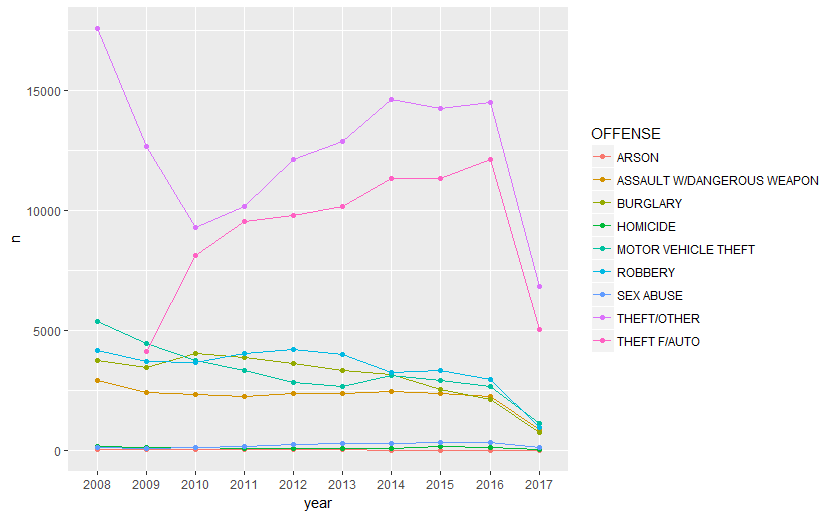
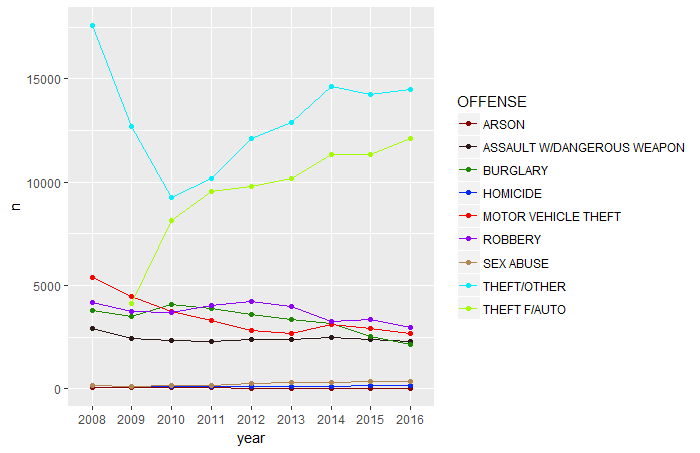
DC crimes

diff --git a/DCCrimeData.html b/DCCrimeData.html
@@ -1,7 +1,7 @@
 ---
 layout: default
 ---
-	<h2><a href="./CrimeData.html">Data visualization to compare crime statistics in DC and Chicago</a></h2>
+	<h2><a href="./DCCrimeData.html">A look at DC Crime Incidents</a></h2>
 	<p class="post-date">July 18, 2017</p>
 	<hr id='top-line'>
 
@@ -12,11 +12,15 @@ layout: default
 		<p style="text-align:center;">
     	<img src="./images/crime/dc_yearly.png" width="100%" height=auto style="max-width:450px;">
     	</p>
+   
     </div>
-    <p class="content">In 2008, Chicago Police Department's CLEAR (Citizen Law Enforcement Analysis and Reporting) system reported a total of 426,796 crime incidents and in 2016, a total of 267,626 crime incidents were reported. According to the plot below, the total number of crime incidents has been decreasing steadily since 2008.</p>
-    	<div class="content">
-		<p class="graph-title">Count of crime incidents from 2008-2017</p>
+    <p class="content">A closer look at the types of crimes that are contributing to the increase in number of crime incidents over the past 7 year revealed theft to be the main culprit. While there's a decline in the number of burglary, there are also slight increases in other crime types such as robbery and sex abuses. &#40; The graph also shows decreases in incidences of motor vehicle theft but auto theft is increasing since 2009&#41;</p>
+	<div class="content">
+		<p class="graph-title">Count of each crime type, 2008-2016</p>
 		<p style="text-align:center;">
-    	<img src="./images/crime/chicago_yearly.png" width="100%" height=auto style="max-width:450px;">
+    	<img src="./images/crime/dc_crimetype.png" width="100%" height=auto style="max-width:450px;">
     	</p>
     </div>
+
+
+

diff --git a/index.html b/index.html
@@ -3,13 +3,13 @@ layout: default
 ---
 
 	<span class="post-date"> July 18, 2017 </span>
-	<h2><a href="./CrimeData.html">Data visualization to compare crime statistics in DC and Chicago</a></h2>
+	<h2><a href="./DCCrimeData.html">A look at DC Crime Incidents</a></h2>
 	<hr id='top-line'>
-	<p class="content">In 2008, the District of Columbia Metropolitan Police Department reported a total of 34,205 crime incidents and in 2016, 37,186 crime incidents were reported. The bar plot below also shows that the crime incidents have been increasing steadily since 2009 with a peak in 2014.</p>
+	<p class="content">In 2008, the District of Columbia Metropolitan Police Department reported a total of 34,205 crime incidents and in 2016, 37,186 crime incidents were reported. The bar plot below also shows that the crime incidents have been increasing steadily since 2009 with a peak in 2014. <a class="link" target="_blank" href="./DCCrimeData.html">Read more...</a></p>
 	<div class="content">
 		<p class="graph-title">Count of crime incidents from 2008-2017</p>
 		<p style="text-align:center;">
     	<img src="./images/crime/dc_yearly.png" width="100%" height=auto style="max-width:450px;">
     	</p>
     </div>
-	<p class="content"><a class="link" target="_blank" href="./CrimeData.html">Read more...</a></p>
+	
